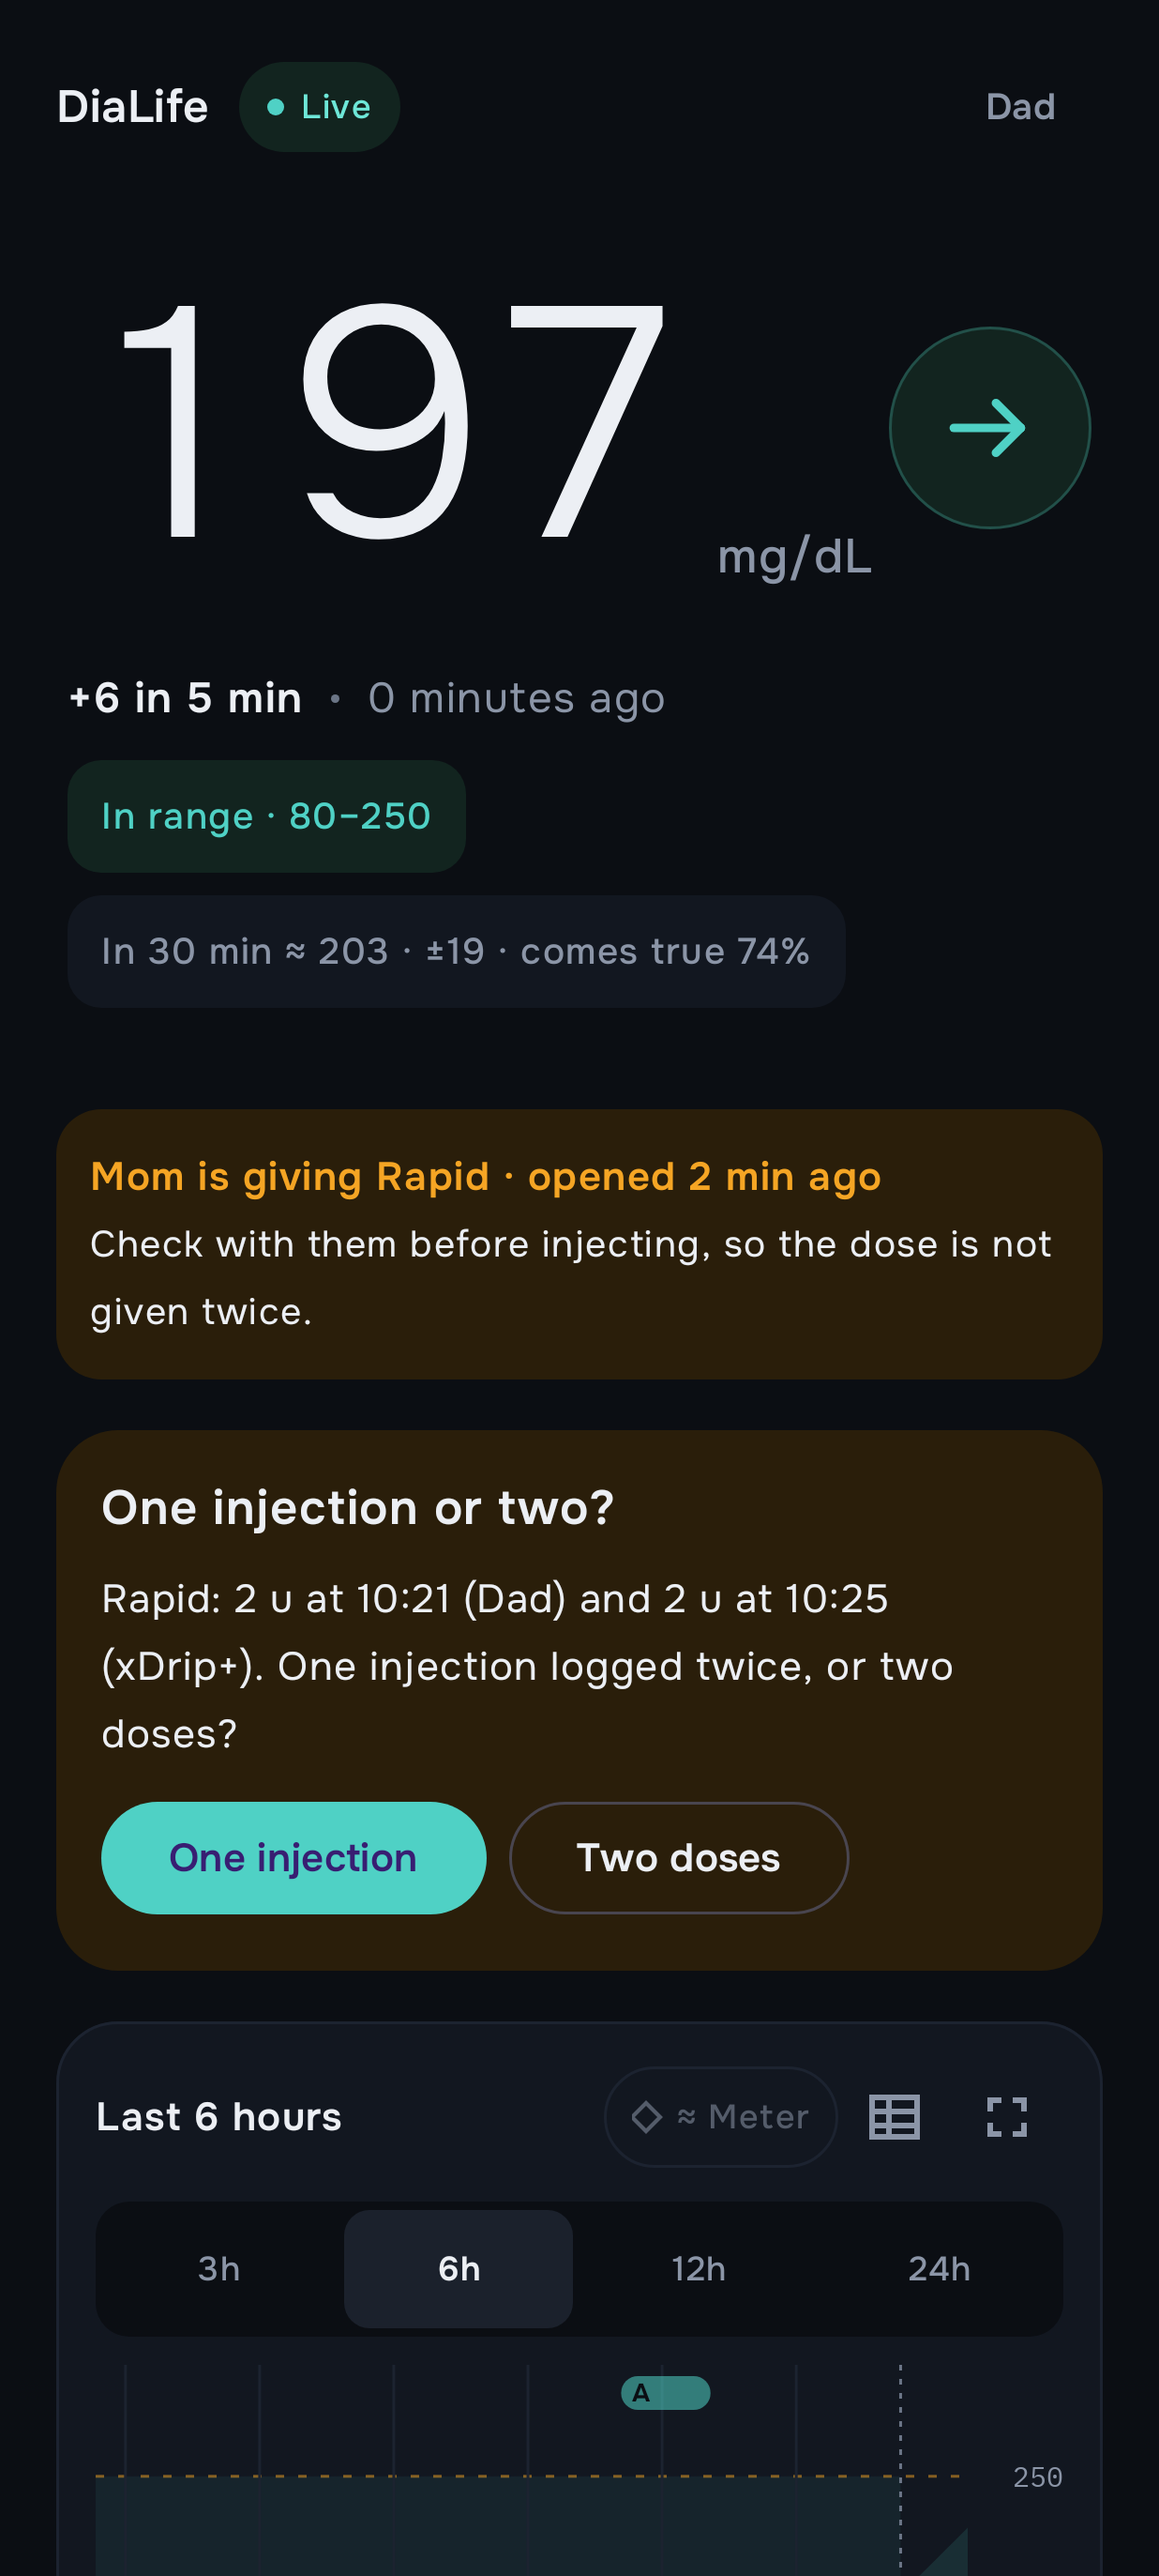
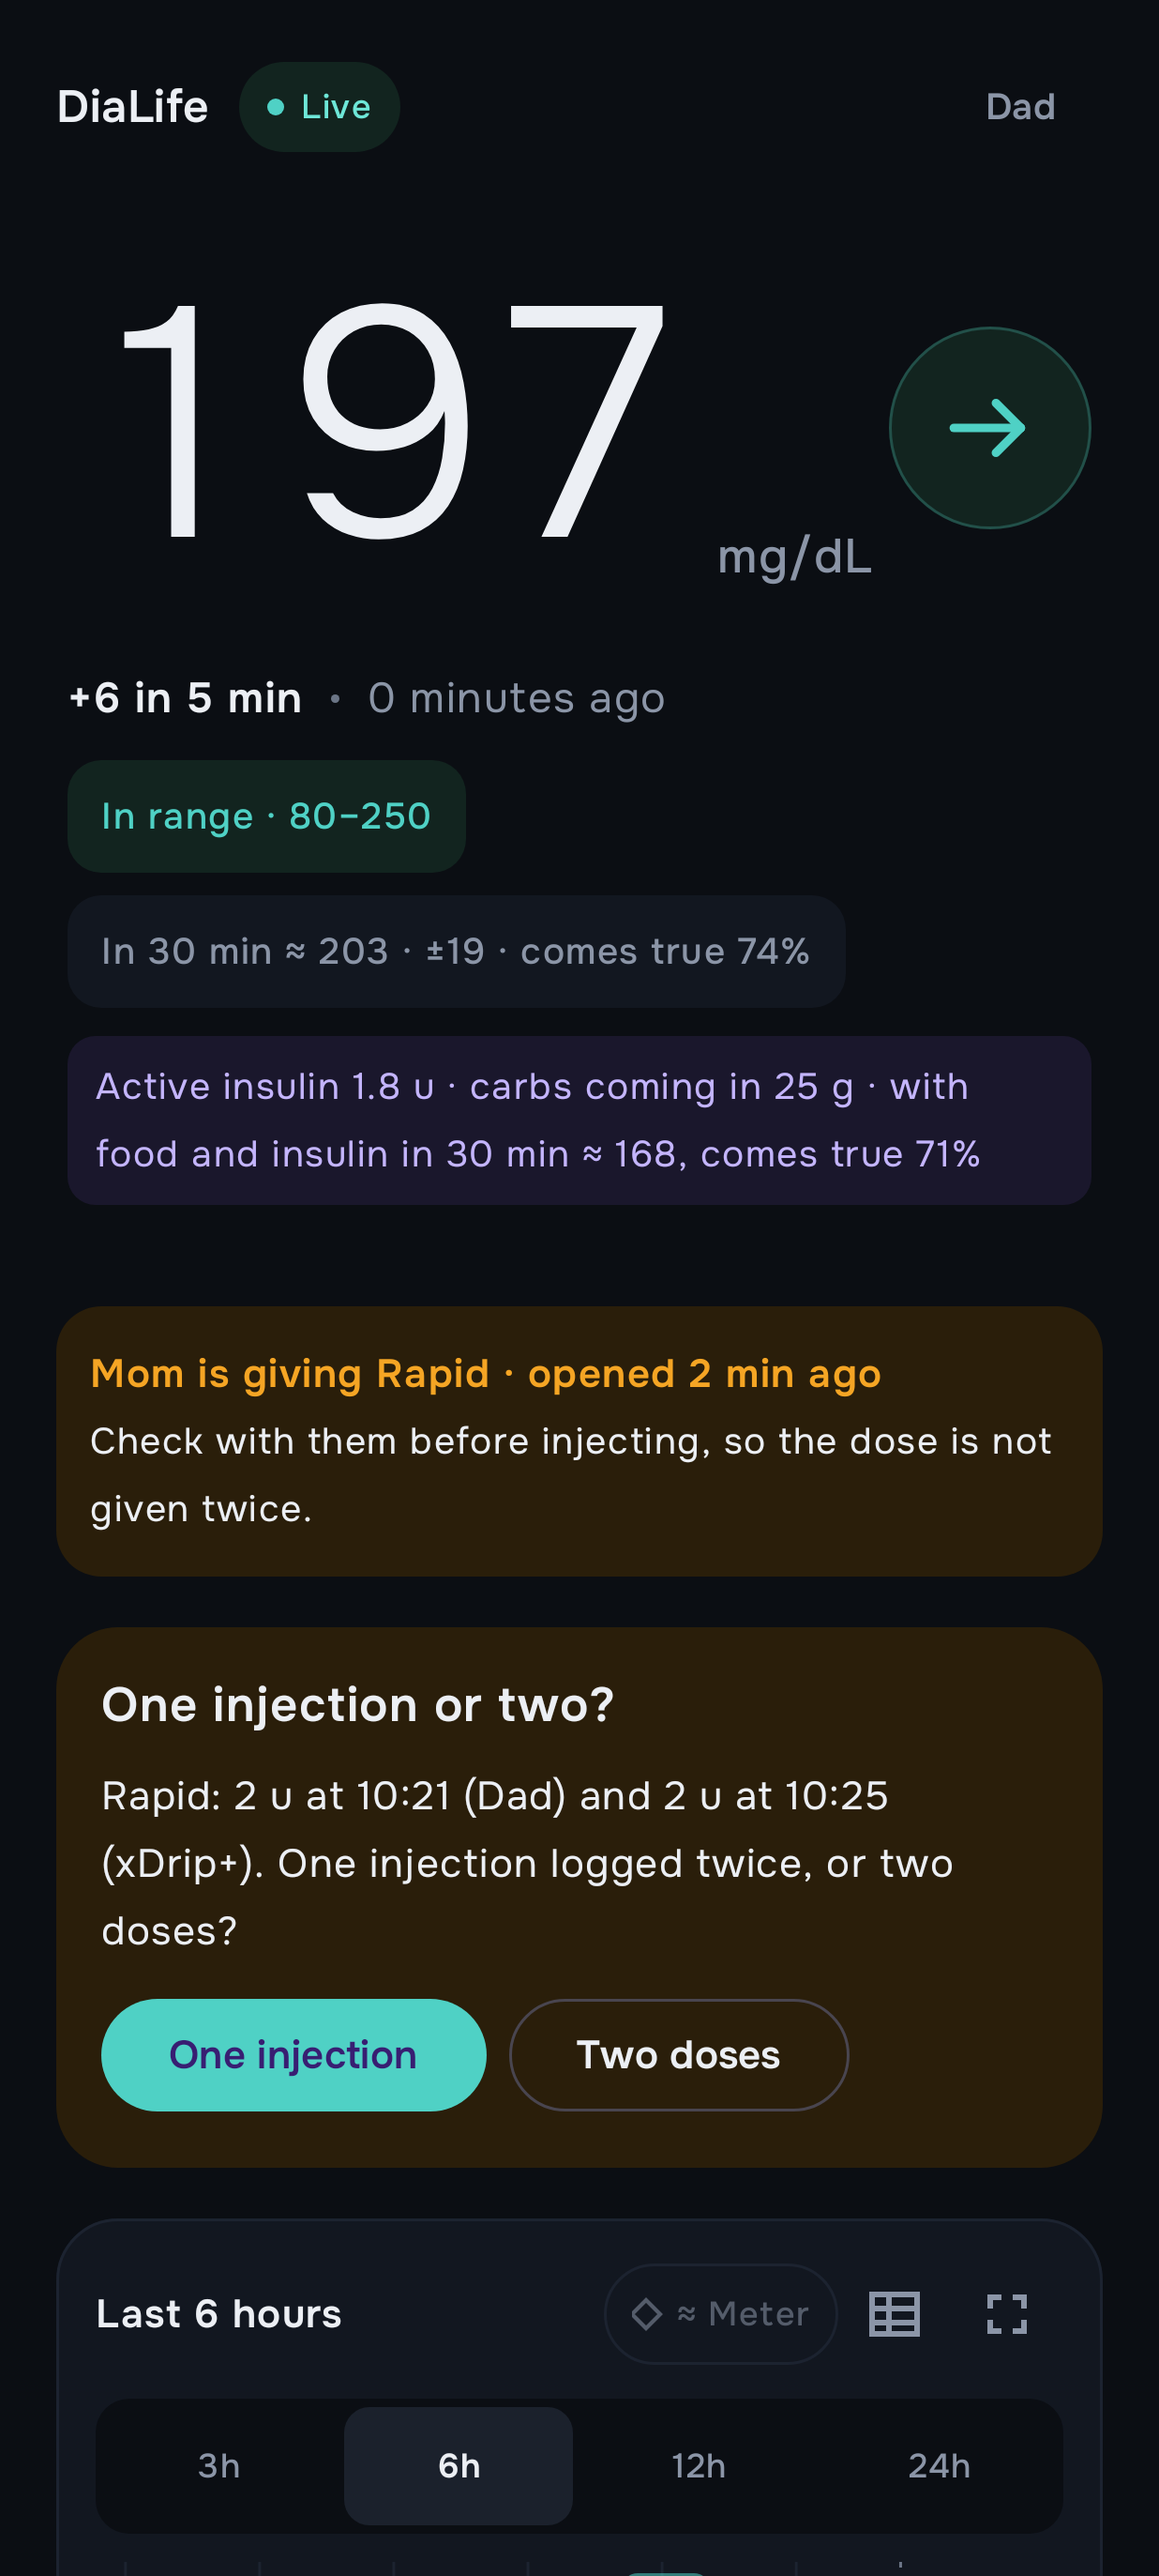
App: active insulin, carbs coming in and their forecast on the main screen; forecast settings

diff --git a/android/app/src/main/kotlin/com/lumenarcanus/dialife/ui/settings/DoseSettingsScreen.kt b/android/app/src/main/kotlin/com/lumenarcanus/dialife/ui/settings/DoseSettingsScreen.kt
@@ -79,6 +79,9 @@ fun DoseSettingsScreen(dose: DoseSettings, units: Units, onSave: suspend (DoseSe
     var maxRapid by remember { mutableStateOf(f(dose.maxRapid)) }
     var maxBasal by remember { mutableStateOf(f(dose.maxBasal)) }
     var maxCarbs by remember { mutableStateOf(dose.maxCarbs.toString()) }
+    var isf by remember { mutableStateOf(if (dose.isf > 0) formatGlucose(dose.isf, units, locale) else "") }
+    var dia by remember { mutableStateOf(dose.diaMin.toString()) }
+    var carbMin by remember { mutableStateOf(dose.carbMin.toString()) }
     // rows as typed: the mg/dL shown in this phone's units
     val rows = remember { mutableStateListOf<Pair<String, String>>().apply { dose.table.forEach { add(formatGlucose(it.mg, units, locale) to f(it.u)) } } }
     var saving by remember { mutableStateOf(false) }
@@ -98,6 +101,9 @@ fun DoseSettingsScreen(dose: DoseSettings, units: Units, onSave: suspend (DoseSe
         val mgs = table.mapNotNull { it.first }
         if (mgs.size != mgs.toSet().size) add(stringResource(R.string.dose_err_twice))
         if (mr != null && table.any { (_, u) -> u != null && u > mr }) add(stringResource(R.string.dose_err_table_max, f(mr)))
+        if (isf.isNotBlank() && mgOf(isf)?.let { it in 5..400 } != true) add(stringResource(R.string.dose_err_isf))
+        if (dia.toIntOrNull()?.let { it in 120..480 } != true) add(stringResource(R.string.dose_err_dia))
+        if (carbMin.toIntOrNull()?.let { it in 60..360 } != true) add(stringResource(R.string.dose_err_carb_min))
     }
 
     Column(Modifier.fillMaxSize().background(c.background).safeDrawingPadding()) {
@@ -189,6 +195,14 @@ fun DoseSettingsScreen(dose: DoseSettings, units: Units, onSave: suspend (DoseSe
                 NumberRow(stringResource(R.string.dose_fresh_pre), fresh, stringResource(R.string.unit_min), KeyboardType.Number) { fresh = it.filter(Char::isDigit).take(2) }
                 Text(stringResource(R.string.dose_fresh_note), color = c.textFaint, fontSize = 12.sp)
             }
+            Group(stringResource(R.string.dose_forecast)) {
+                Text(stringResource(R.string.dose_forecast_note), color = c.textMuted, fontSize = 13.sp)
+                val unit = if (units == Units.Mmol) stringResource(R.string.unit_mmol) else "mg/dL"
+                NumberRow(stringResource(R.string.dose_isf), isf, unit, KeyboardType.Decimal) { isf = it.filter { ch -> ch.isDigit() || ch == ',' || ch == '.' }.take(5) }
+                Text(stringResource(R.string.dose_isf_note), color = c.textFaint, fontSize = 12.sp)
+                NumberRow(stringResource(R.string.dose_dia), dia, stringResource(R.string.unit_min), KeyboardType.Number) { dia = it.filter(Char::isDigit).take(3) }
+                NumberRow(stringResource(R.string.dose_carb_min), carbMin, stringResource(R.string.unit_min), KeyboardType.Number) { carbMin = it.filter(Char::isDigit).take(3) }
+            }
             problems.forEach { Text(it, color = c.low, fontSize = 13.sp) }
             when (result) {
                 true -> Text(stringResource(R.string.dose_saved), color = c.inRange, fontSize = 13.sp)
@@ -203,6 +217,7 @@ fun DoseSettingsScreen(dose: DoseSettings, units: Units, onSave: suspend (DoseSe
                     ratio = r!!, rule = rule, step = step, freshMin = fresh.toInt(),
                     maxRapid = num(maxRapid)!!, maxBasal = num(maxBasal)!!, maxCarbs = maxCarbs.toInt(),
                     table = table.map { (mg, u) -> CorrectionRow(mg!!, u!!) }.sortedBy { it.mg },
+                    isf = if (isf.isBlank()) 0 else mgOf(isf)!!, diaMin = dia.toInt(), carbMin = carbMin.toInt(),
                 )
                 scope.launch { result = onSave(d).isSuccess; saving = false }
             },

diff --git a/android/app/src/main/kotlin/com/lumenarcanus/dialife/ui/home/HomeScreen.kt b/android/app/src/main/kotlin/com/lumenarcanus/dialife/ui/home/HomeScreen.kt
@@ -100,6 +100,8 @@ data class HomeState(
     val high: Int,
     val forecast30: Int?,
     val forecastQuality: com.lumenarcanus.dialife.data.ForecastQuality? = null,
+    val iob: com.lumenarcanus.dialife.data.Iob? = null,
+    val iobQuality: com.lumenarcanus.dialife.data.ForecastQuality? = null,
     val phoneBattery: Int?,
     val uploaderName: String? = null, // the family's name for the xDrip+ phone, from the server
     val alarms: Int = 0,
@@ -143,7 +145,9 @@ fun sampleHomeUi(now: Long = 1_761_400_000_000L, dad: String = "Тато", mom: 
     )
     return HomeUi(
         state = StateResponse(now, "mg/dl", Thresholds(55, 80, 250, 300), bg, ar2, Uploader(battery = 69), questions = questions,
-            forecastQuality = com.lumenarcanus.dialife.data.ForecastQuality(19, 74, 560, listOf(com.lumenarcanus.dialife.data.ForecastBlind("food", t[270])))),
+            forecastQuality = com.lumenarcanus.dialife.data.ForecastQuality(19, 74, 560, listOf(com.lumenarcanus.dialife.data.ForecastBlind("food", t[270]))),
+            iob = com.lumenarcanus.dialife.data.Iob(1.8, 25, 40, listOf(com.lumenarcanus.dialife.data.IobPoint(t[287] + 15 * 60_000L, 176), com.lumenarcanus.dialife.data.IobPoint(t[287] + 30 * 60_000L, 168), com.lumenarcanus.dialife.data.IobPoint(t[287] + 60 * 60_000L, 150))),
+            iobQuality = com.lumenarcanus.dialife.data.ForecastQuality(18, 71, 1900)),
         myId = 8,
         history = History(t.first(), now, Series(t, v), mbg = Series(listOf(t[270]), listOf(v[270] - 9)), treatments = treatments),
         now = now,
@@ -170,6 +174,8 @@ fun HomeUi.toHomeState(fallbackUnits: Units): HomeState? {
         high = th.high,
         forecast30 = st.ar2?.predicted?.lastOrNull()?.sgv,
         forecastQuality = st.forecastQuality,
+        iob = st.iob,
+        iobQuality = st.iobQuality,
         phoneBattery = st.uploader?.battery,
         uploaderName = st.uploaderName,
         alarms = st.alarms.count { it.state != "cleared" },
@@ -609,6 +615,24 @@ private fun Hero(state: HomeState, locale: Locale) {
                 else stringResource(R.string.forecast_30, formatGlucose(it, state.units, locale))
                 Chip(text, background = c.surface, color = c.textMuted)
             }
+        }
+        // the forecast that knows the food and insulin logged; alarms do not use it
+        state.iob?.let { iob ->
+            val u = stringResource(R.string.unit_insulin)
+            val parts = listOfNotNull(
+                stringResource(R.string.iob_insulin, com.lumenarcanus.dialife.ui.treatment.formatAmount(iob.insulin, locale), u).takeIf { iob.insulin >= 0.05 },
+                stringResource(R.string.iob_carbs, iob.carbs).takeIf { iob.carbs > 0 },
+            )
+            val f30 = iob.forecast.getOrNull(1)?.v
+            val q = state.iobQuality?.takeIf { it.n >= 50 }
+            val fc = f30?.let { v ->
+                if (q != null) stringResource(R.string.iob_forecast_q, formatGlucose(v, state.units, locale), q.hitPct) else stringResource(R.string.iob_forecast, formatGlucose(v, state.units, locale))
+            }
+            if (parts.isNotEmpty() || fc != null) Text(
+                (parts + listOfNotNull(fc)).joinToString(" · "),
+                color = c.insulin, fontSize = 13.sp,
+                modifier = Modifier.background(c.insulinContainer.copy(alpha = 0.5f), RoundedCornerShape(10.dp)).padding(horizontal = 10.dp, vertical = 6.dp),
+            )
         }
         // what the trend cannot see: food or rapid insulin in the last two hours
         state.forecastQuality?.ignores?.maxByOrNull { it.t }?.let { b ->

diff --git a/android/app/src/main/kotlin/com/lumenarcanus/dialife/data/Models.kt b/android/app/src/main/kotlin/com/lumenarcanus/dialife/data/Models.kt
@@ -102,7 +102,21 @@ data class StateResponse(
     val intents: List<InsulinIntent> = emptyList(), // parents with the insulin form open right now
     val dose: DoseSettings = DoseSettings(), // the family's dose calculation, the same on every phone
     val planned: List<PlannedDose> = emptyList(), // doses worked out for a meal, not given yet
+    val iob: Iob? = null, // insulin still working and carbs still coming in; null: nothing
+    @SerialName("iob_quality") val iobQuality: ForecastQuality? = null, // how often that forecast came true
 )
+
+/** Rapid insulin still working, carbs still coming in, and what they make of the next hour. Alarms never use it. */
+@Serializable
+data class Iob(
+    val insulin: Double = 0.0,
+    val carbs: Int = 0,
+    val isf: Int = 0,
+    val forecast: List<IobPoint> = emptyList(), // +15, +30, +60 min; empty when the reading is old
+)
+
+@Serializable
+data class IobPoint(val t: Long, val v: Int)
 
 /** How the food form works out a rapid dose: shared by the family, set in settings. */
 @Serializable
@@ -115,6 +129,9 @@ data class DoseSettings(
     @SerialName("max_basal") val maxBasal: Double = 20.0,
     @SerialName("max_carbs") val maxCarbs: Int = 150,
     val table: List<CorrectionRow> = listOf(CorrectionRow(140, 1.0), CorrectionRow(180, 2.0), CorrectionRow(220, 3.0), CorrectionRow(260, 4.0), CorrectionRow(300, 5.0)),
+    val isf: Int = 0, // mg/dL one rapid unit lowers; 0: from the correction table's steps
+    @SerialName("dia_min") val diaMin: Int = 240, // how long rapid insulin works
+    @SerialName("carb_min") val carbMin: Int = 180, // how long carbs take to come in
     @SerialName("updated_at") val updatedAt: Long = 0,
     @SerialName("updated_by") val updatedBy: String = "",
 )

diff --git a/android/app/src/main/kotlin/com/lumenarcanus/dialife/data/DiaLifeApi.kt b/android/app/src/main/kotlin/com/lumenarcanus/dialife/data/DiaLifeApi.kt
@@ -83,6 +83,7 @@ class DiaLifeApi(
         buildJsonObject {
             put("ratio", d.ratio); put("rule", d.rule); put("step", d.step); put("fresh_min", d.freshMin)
             put("max_rapid", d.maxRapid); put("max_basal", d.maxBasal); put("max_carbs", d.maxCarbs)
+            put("isf", d.isf); put("dia_min", d.diaMin); put("carb_min", d.carbMin)
             put("table", kotlinx.serialization.json.buildJsonArray { d.table.forEach { r -> add(buildJsonObject { put("mg", r.mg); put("u", r.u) }) } })
         }.toString(),
     )

diff --git a/README.md b/README.md
@@ -90,6 +90,11 @@ the app; a demo server with a generated day for the web).
 - **Statistics.** Time in range, mean, GMI, CV, the typical day (AGP), daily
   insulin and carbs, and an alarm log. The 30-minute forecast shows how often
   it came true on the child's own recent readings.
+- **A forecast that knows the food and insulin.** Rapid insulin still working
+  and carbs still coming in (the LoopKit/oref0 insulin curve, carbs absorbed
+  evenly) give a second forecast for the next hour, with its own record of how
+  often it came true. The sensitivity comes from the correction table unless
+  you set it. Alarms do not use it.
 - **Read-only web viewer** for a computer: the chart, any period, and every
   reading and entry as a table. A browser gets in only when a parent scans its
   QR code in the app and chooses how long it may stay; the parent can end the
